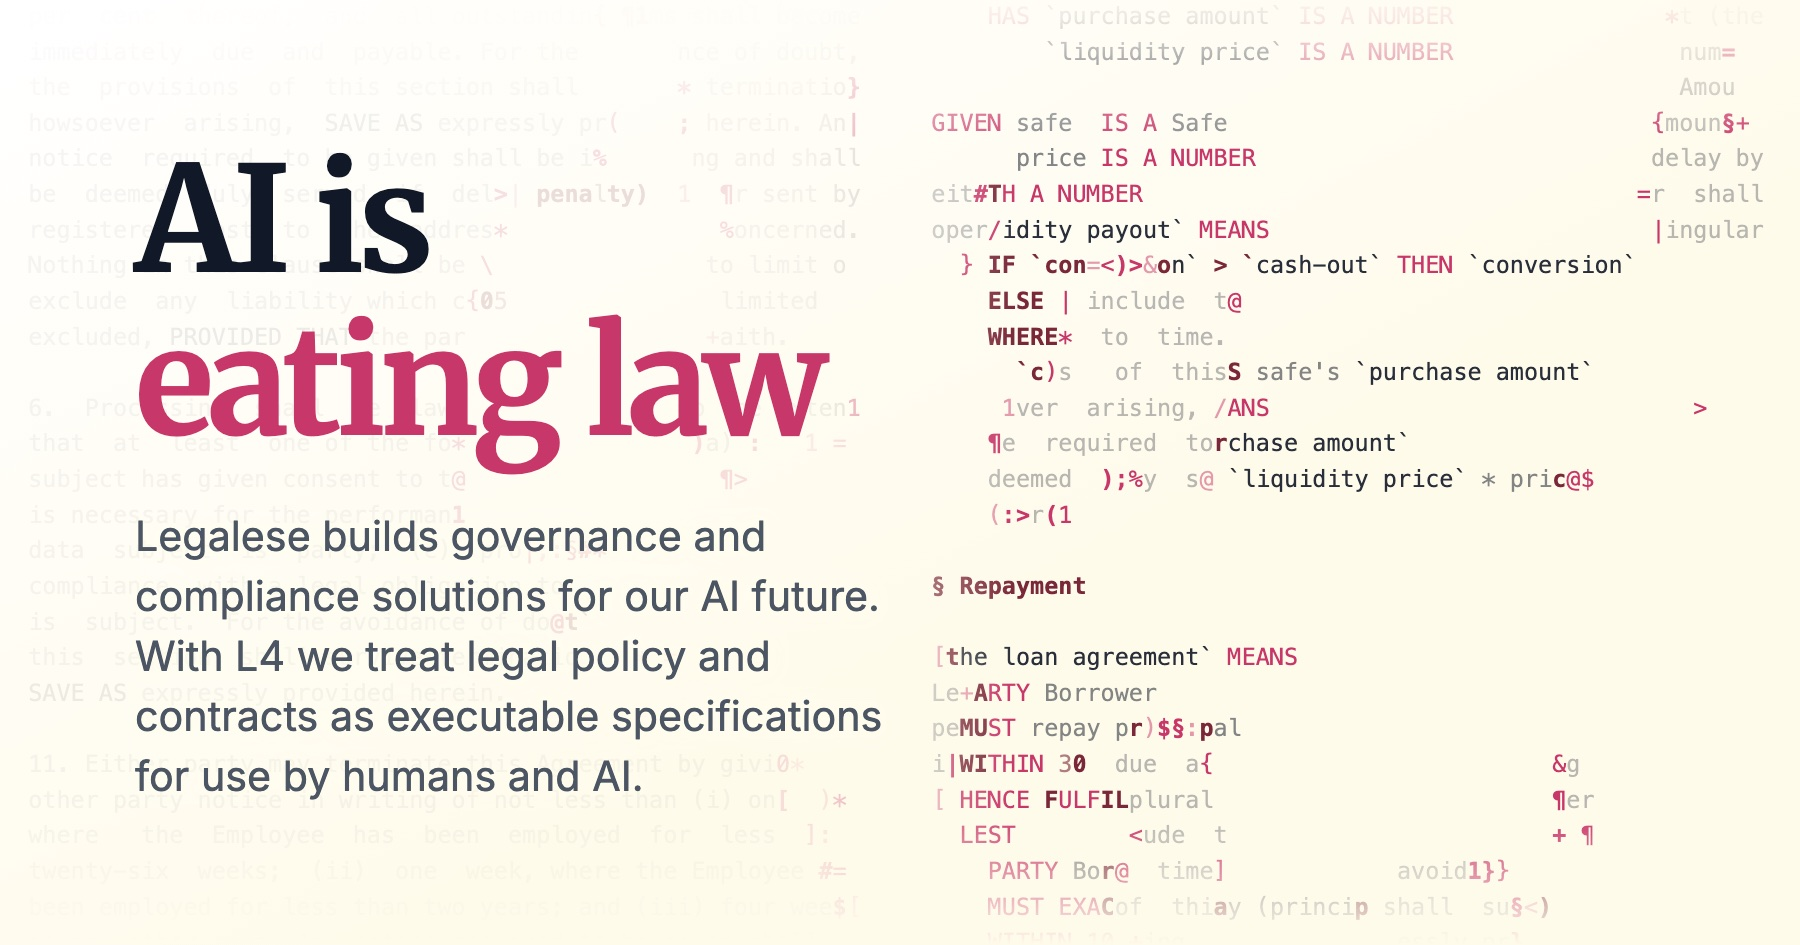
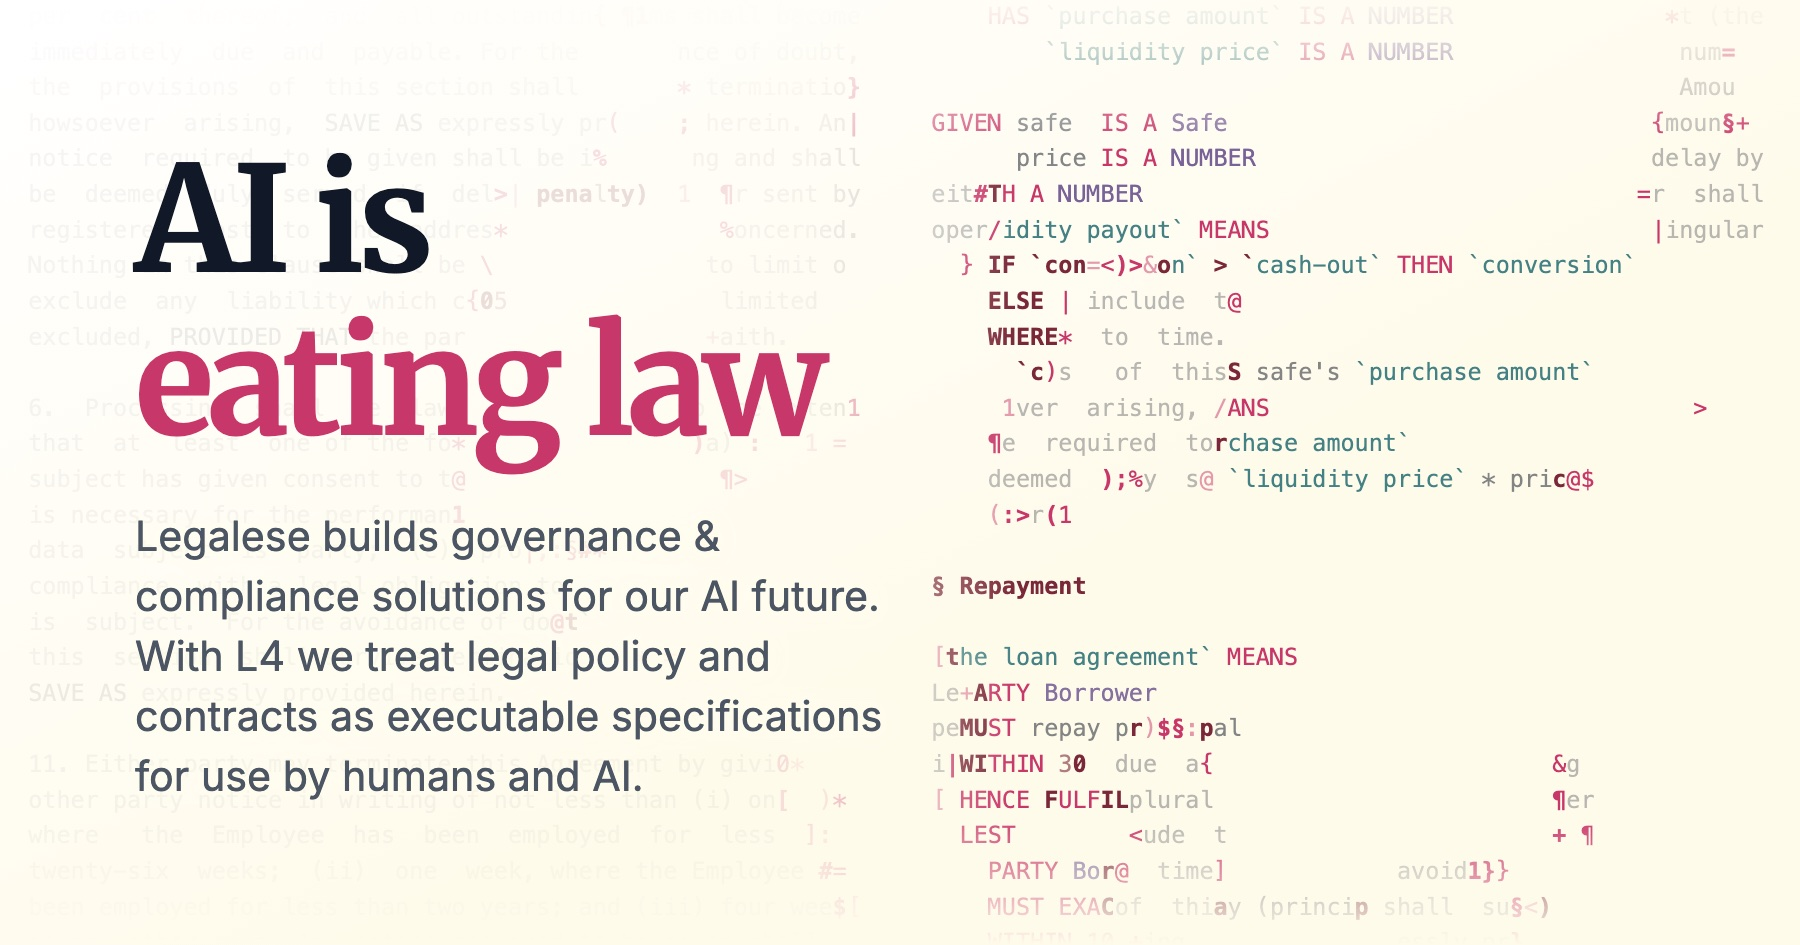
Hero: muted teal and purple in the L4 code, button alignment, copy tweak
Quoted names in the hero animation are now a muted teal and type names a
muted purple; keywords, numbers and headings keep the pink and maroon.
The primary buttons get a border matching the outlined ones so their labels
are vertically centred. Hero copy says 'governance & compliance'. Open Graph
image regenerated to match.

diff --git a/src/app/_components/hero-ascii.tsx b/src/app/_components/hero-ascii.tsx
@@ -6,41 +6,49 @@ import { useEffect, useRef } from "react";
 const MONO =
   'ui-monospace, SFMono-Regular, Menlo, Monaco, Consolas, "Liberation Mono", "Courier New", monospace';
 
-// gray-900, accent and accent-hover from tailwind.config.ts
+// gray-900, accent and accent-hover from tailwind.config.ts, plus a muted
+// teal and purple that only tint the L4 code
 const COLORS = {
   ink: "rgb(17, 24, 39)",
   accent: "rgb(200, 55, 106)",
   deep: "rgb(122, 40, 57)",
+  teal: "rgb(58, 122, 128)",
+  purple: "rgb(120, 98, 152)",
 };
 
 const S = {
   FAINT: 0,
   MID: 1,
-  STRONG: 2,
+  TEAL: 2,
   ACC_SOFT: 3,
   ACC: 4,
   ACC_BOLD: 5,
   DEEP_SOFT: 6,
   DEEP: 7,
+  PURPLE: 8,
+  PURPLE_SOFT: 9,
 };
 
 const STYLES: { color: keyof typeof COLORS; alpha: number; weight: number }[] = [
   { color: "ink", alpha: 0.3, weight: 400 },
   { color: "ink", alpha: 0.52, weight: 400 },
-  { color: "ink", alpha: 0.9, weight: 500 },
+  { color: "teal", alpha: 0.95, weight: 500 },
   { color: "accent", alpha: 0.5, weight: 400 },
   { color: "accent", alpha: 1, weight: 500 },
   { color: "accent", alpha: 1, weight: 600 },
   { color: "deep", alpha: 0.6, weight: 400 },
   { color: "deep", alpha: 1, weight: 600 },
+  { color: "purple", alpha: 1, weight: 500 },
+  { color: "purple", alpha: 0.9, weight: 400 },
 ];
 
 const KEYWORDS = new Set(
   (
     "GIVEN GIVETH DECIDE DECLARE IF THEN ELSE AND OR NOT MEANS IS A AN HAS ONE OF PARTY MUST MAY SHANT " +
-    "WITHIN HENCE LEST WHERE CONSIDER WHEN OTHERWISE BOOLEAN NUMBER STRING TRUE FALSE FULFILLED EXACTLY PROVIDED"
+    "WITHIN HENCE LEST WHERE CONSIDER WHEN OTHERWISE TRUE FALSE FULFILLED EXACTLY PROVIDED"
   ).split(" ")
 );
+const TYPES = new Set(["BOOLEAN", "NUMBER", "STRING"]);
 
 // Each clause of legal prose is laid out over the L4 rule it turns into
 const CLAUSES = [
@@ -252,14 +260,17 @@ function justify(line: string, width: number) {
 function styleCode(line: string) {
   const out = new Uint8Array(line.length).fill(S.MID);
   if (/^\s*§/.test(line)) return out.fill(S.DEEP);
-  const re = /`[^`]*`|\b[A-Z]+\b|\b\d+(?:\.\d+)?\b/g;
+  const re = /`[^`]*`|\b[A-Z]+\b|\b[A-Z][a-z]+\b|\b\d+(?:\.\d+)?\b/g;
   let m: RegExpExecArray | null;
   while ((m = re.exec(line))) {
     const tok = m[0];
     let s = -1;
-    if (tok[0] === "`") s = S.STRONG;
+    if (tok[0] === "`") s = S.TEAL;
     else if (tok[0] >= "0" && tok[0] <= "9") s = S.DEEP_SOFT;
+    else if (TYPES.has(tok)) s = S.PURPLE;
     else if (KEYWORDS.has(tok)) s = S.ACC;
+    // Capitalised names are types and parties
+    else if (/^[A-Z][a-z]+$/.test(tok)) s = S.PURPLE_SOFT;
     if (s >= 0) out.fill(s, m.index, m.index + tok.length);
   }
   return out;

diff --git a/src/app/page.tsx b/src/app/page.tsx
@@ -33,7 +33,7 @@ export default function Index() {
                 <span className="whitespace-nowrap text-accent">eating law</span>
               </h1>
               <p className="text-xl md:text-2xl text-gray-600 mb-8 leading-relaxed [text-shadow:0_0_14px_#fffbeb,0_0_4px_#fffbeb]">
-                Legalese builds governance and compliance solutions for our AI future.
+                Legalese builds governance &amp; compliance solutions for our AI future.
                 With L4 we treat legal policy and contracts as executable specifications for use by humans and AI.
               </p>
               <div className="flex flex-wrap gap-4">
@@ -41,7 +41,7 @@ export default function Index() {
                   href="https://marketplace.visualstudio.com/items?itemName=Legalese.l4-vscode" 
                   target="_blank" 
                   rel="noopener"
-                  className="bg-accent text-white px-8 py-3 rounded-lg font-medium hover:bg-accent-hover transition-colors"
+                  className="bg-accent text-white border-2 border-accent px-8 py-3 rounded-lg font-medium hover:bg-accent-hover hover:border-accent-hover transition-colors"
                 >
                   L4 in VS Code
                 </a>

diff --git a/src/app/_components/cta-section.tsx b/src/app/_components/cta-section.tsx
@@ -13,7 +13,7 @@ export function CtaSection() {
       <div className="flex flex-wrap justify-center gap-4">
         <Link
           href="/community"
-          className="bg-accent text-white px-8 py-3 rounded-lg font-medium hover:bg-accent-hover transition-colors"
+          className="bg-accent text-white border-2 border-accent px-8 py-3 rounded-lg font-medium hover:bg-accent-hover hover:border-accent-hover transition-colors"
         >
           Join the Community
         </Link>
